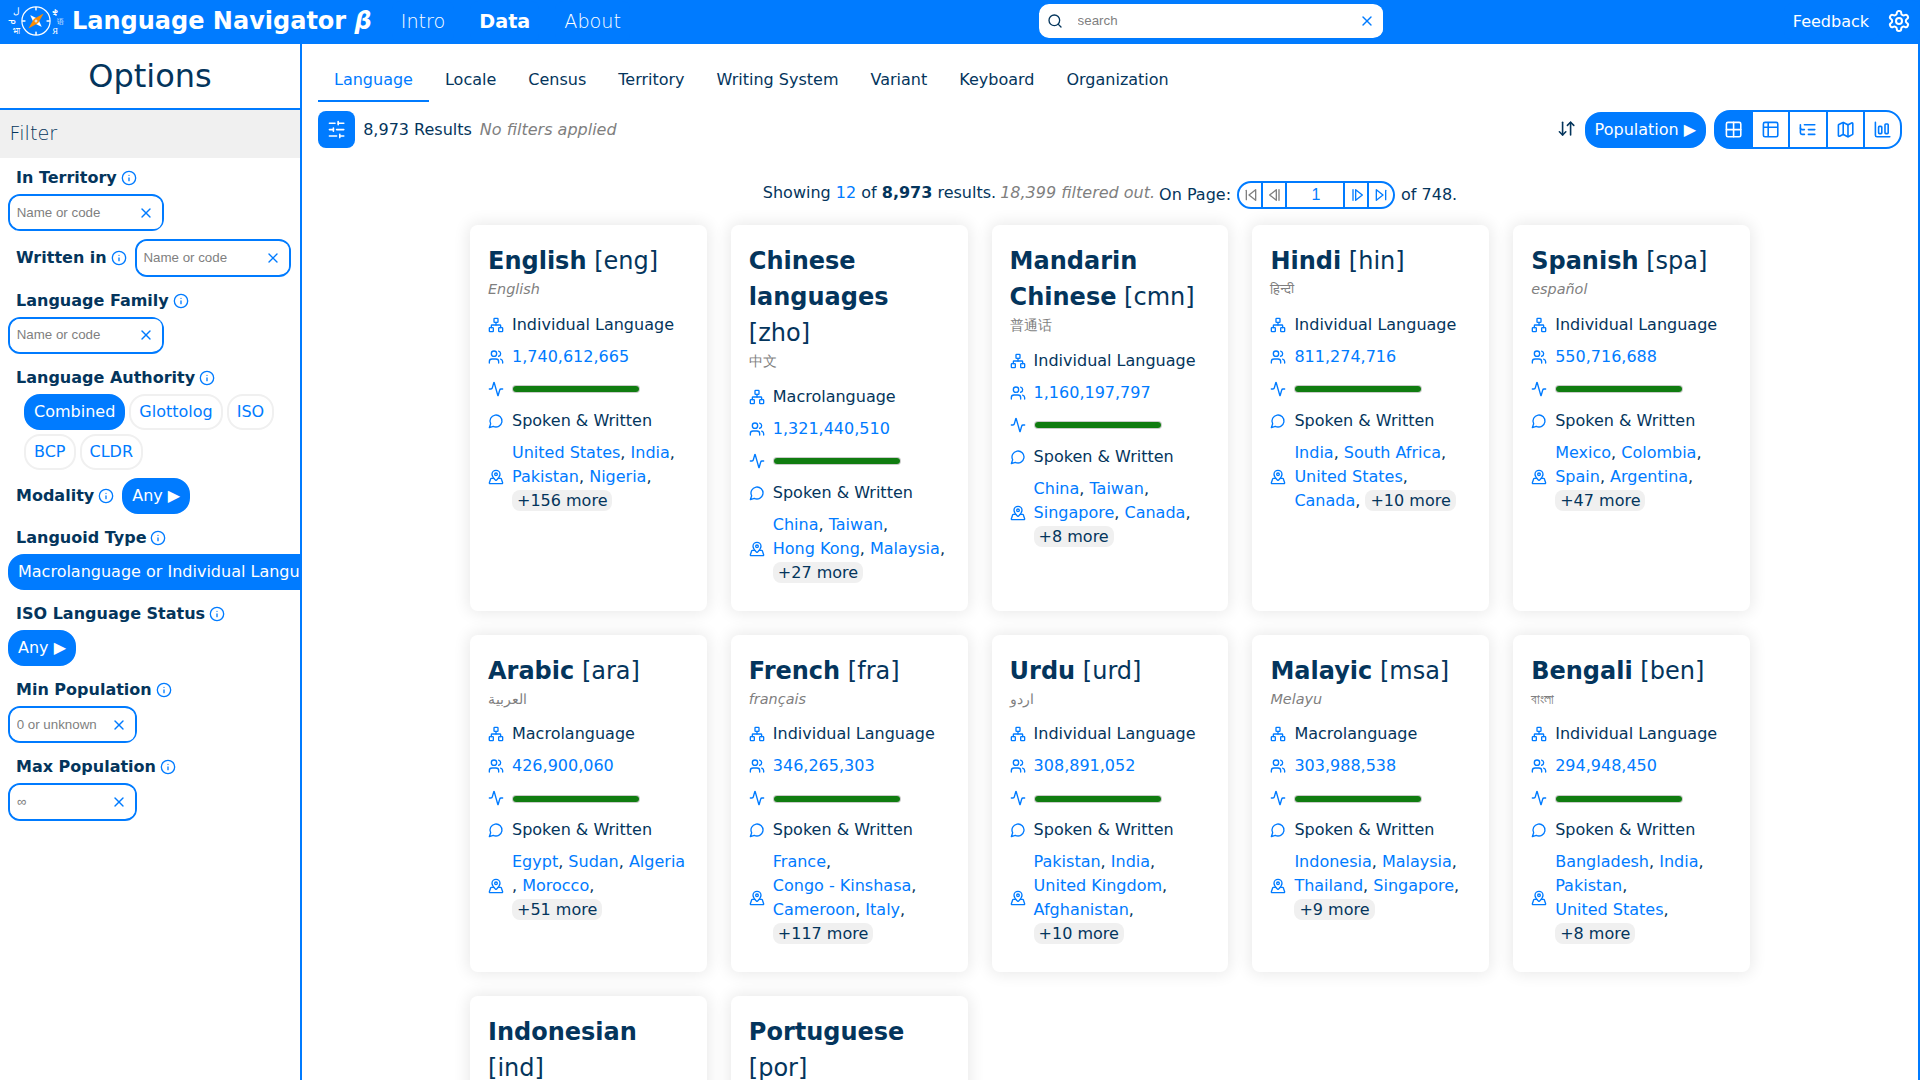
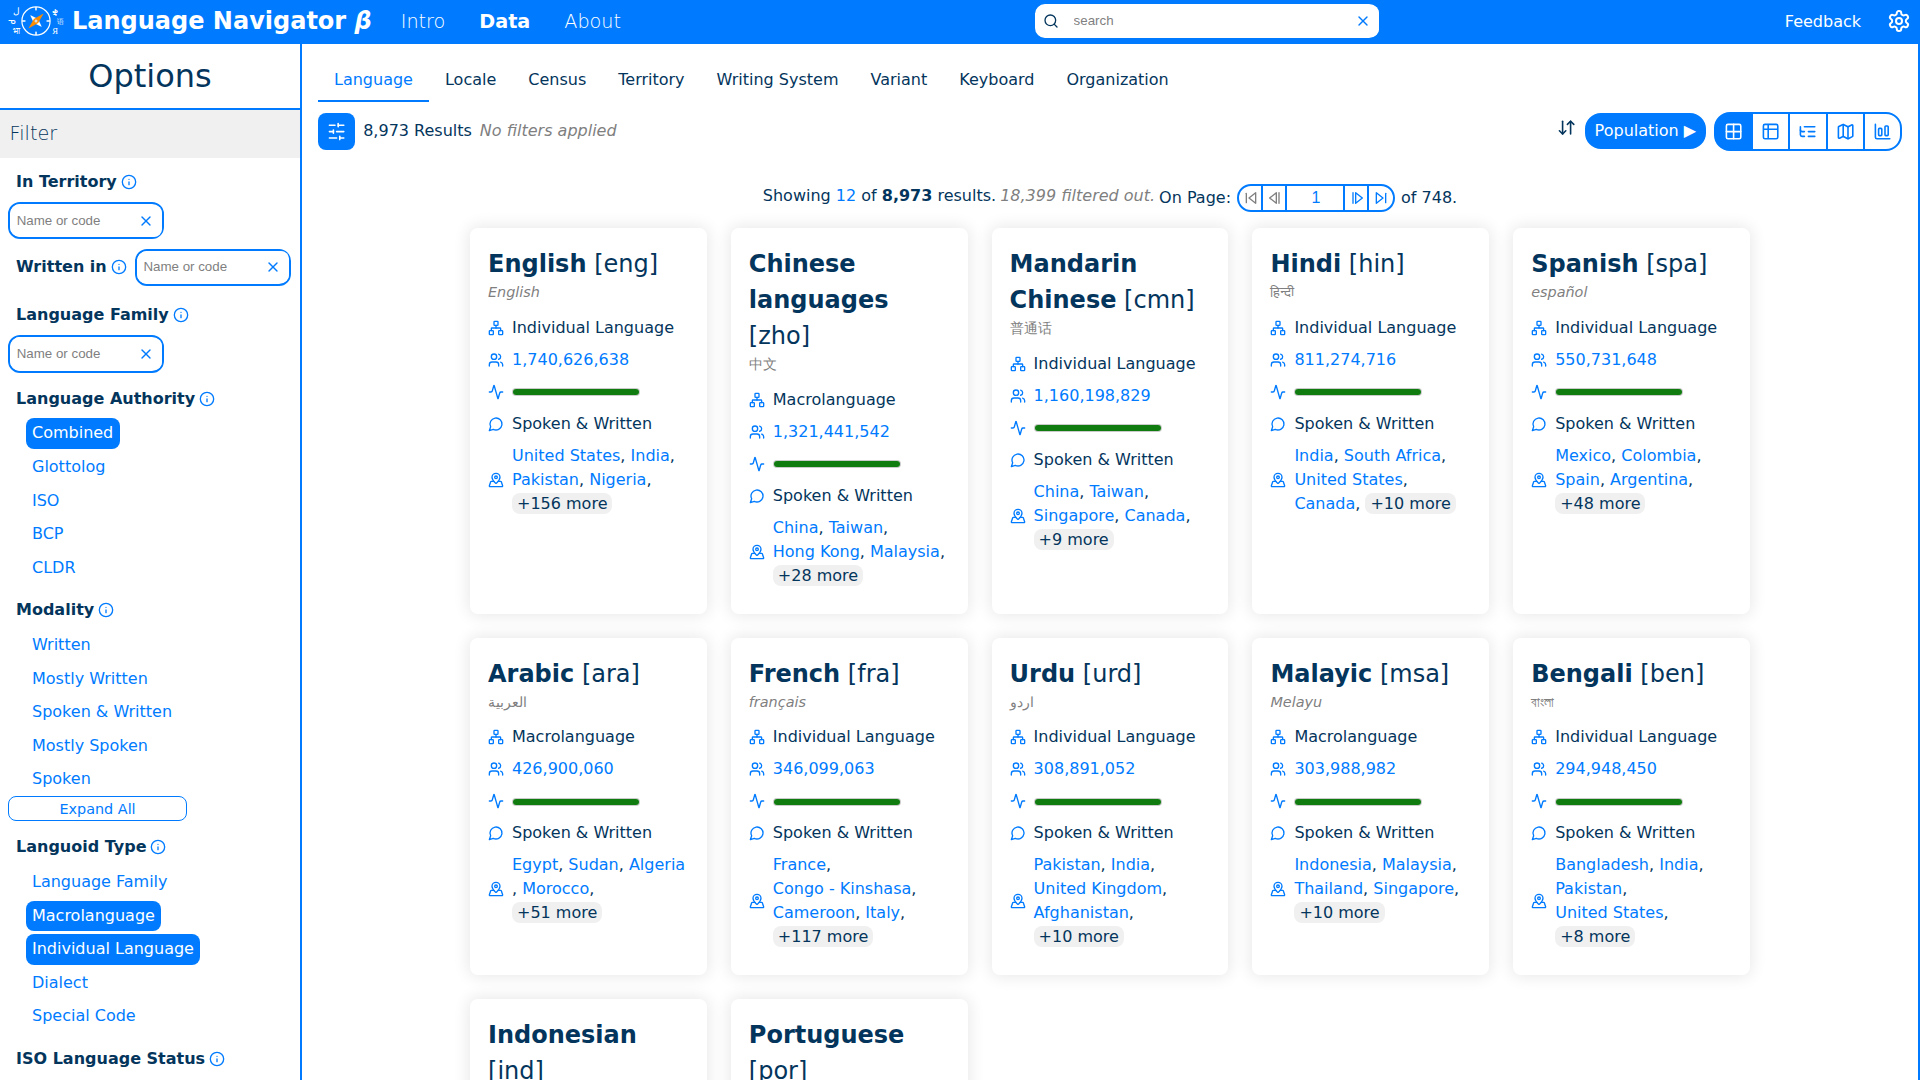
Feat/filter list display (#686)
Fixes #671

Summary: Replaced dropdown/button displays for enum filters with a new
Filter List display mode that shows options as a compact vertical list,
showing the first 5 with an "Expand All" toggle when there are 6 or
more.

- User experience
- Enum filters (Language Authority, Modality, Languoid Type, Territory
Type, ISO Language Status) now show as a vertical plain-text list
instead of a dropdown or button group
  - Options are visible at a glance without needing to open a dropdown
- Increased font bold size and spacing between labels for better
visibility
- "Expand All" / "Collapse" button appears when there are more than 5
options
- Logical changes
  - Added FilterList to the SelectorDisplay enum
- Selector now slices visible options to the first 5 when in FilterList
mode and not expanded
- FilterListMoreButton component added to Selector for the
expand/collapse toggle
- SelectorContainer renders as flex-column with full width for
FilterList
- useClickOutside guarded to not collapse FilterList state on outside
click
- Data
  - No data changes
- Refactors
- LanguageModalitySelector, LanguageScopeSelector,
TerritoryScopeSelector, VitalitySelector updated to accept and forward a
display prop
- VitalitySelector.test updated to include FilterList in the
SelectorDisplay mock and added "Expand All" click before checking all
options are visible
- Continued Refactors for: selectorbuttons, filterlist, and
selectoroptions in controls.css
[…]

Pull request: Feat/filter list display
Fixes #671

Summary: Replaced dropdown/button displays for enum filters with a new Filter List display mode that shows options as a compact vertical list, showing the first 4 with an "Expand All" toggle when there are 5 or more.

- User experience
  - Enum filters (Language Authority, Modality, Languoid Type, Territory Type, ISO Language Status) now show as a vertical plain-text list instead of a dropdown or button group
  - Options are visible at a glance without needing to open a dropdown
  - Increased font bold size and spacing between labels for better visibility
  - "Expand All" / "Collapse" button appears when there are more than 4 options
- Logical changes
  - Added FilterList to the SelectorDisplay enum
  - Selector now slices visible options to the first 4 when in FilterList mode and not expanded
  - FilterListMoreButton component added to Selector for the expand/collapse toggle
  - SelectorContainer renders as flex-column with full width for FilterList
  - useClickOutside guarded to not collapse FilterList state on outside click
- Data
  - No data changes
- Refactors
  - LanguageModalitySelector, LanguageScopeSelector, TerritoryScopeSelector, VitalitySelector updated to accept and forward a display prop
  - VitalitySelector.test updated to include FilterList in the SelectorDisplay mock and added "Expand All" click before checking all options are visible
[…]

diff --git a/src/features/params/ui/Selector.tsx b/src/features/params/ui/Selector.tsx
@@ -26,6 +26,8 @@ type Props<T> = {
   selectorStyle?: React.CSSProperties;
 };
 
+const FILTER_LIST_INITIAL_COUNT = 5;
+
 function Selector<T extends React.Key>({
   display,
   getOptionDescription,
@@ -41,14 +43,25 @@ function Selector<T extends React.Key>({
 }: Props<T>) {
   const [expanded, setExpanded] = useState(false);
   const optionsRef = useClickOutside(() => {
-    setTimeout(() => setExpanded(false), 100);
+    // Only auto-collapse for dropdown modes; FilterList is a persistent filter UI
+    if (display !== SelectorDisplay.FilterList) {
+      setTimeout(() => setExpanded(false), 100);
+    }
   });
+
+  // For FilterList: collapse to first N items unless expanded
+  const isFilterList = display === SelectorDisplay.FilterList;
+  const filterListCollapsed =
+    isFilterList && !expanded && options.length > FILTER_LIST_INITIAL_COUNT;
+  const visibleOptions = filterListCollapsed
+    ? options.slice(0, FILTER_LIST_INITIAL_COUNT)
+    : options;
 
   return (
     <SelectorContainer manualStyle={selectorStyle} manualDisplay={display}>
       {selectorLabel && <SelectorLabel label={selectorLabel} description={selectorDescription} />}
 
-      <div style={{ position: 'relative', display: 'flex', alignItems: 'center' }}>
+      <div className="selectorButtons">
         {/* The dropdown menu or the button list */}
         <OptionsContainer
           isExpanded={expanded}
@@ -59,14 +72,21 @@ function Selector<T extends React.Key>({
             getOptionDescription={getOptionDescription}
             getOptionLabel={getOptionLabel}
             onClick={(option) => {
-              setExpanded(false);
+              if (!isFilterList) setExpanded(false);
               onChange(option);
             }}
             optionStyle={optionStyle}
-            options={options}
+            options={visibleOptions}
             selected={selected}
           />
         </OptionsContainer>
+
+        {/* "More / Less" toggle for FilterList when there are enough options */}
+        <FilterListMoreButton
+          totalCount={options.length}
+          isExpanded={expanded}
+          toggle={() => setExpanded((prev) => !prev)}
+        />
 
         {/* Standalone option to open/close the dropdown menu */}
         <DropdownButton<T>
@@ -120,13 +140,19 @@ const OptionsContainer: React.FC<React.PropsWithChildren<OptionsContainerProps>>
     case SelectorDisplay.ButtonList:
       return (
         <div
+          className="selectorOptions"
           ref={containerRef}
-          style={{
-            display: 'flex',
-            flexWrap: 'wrap',
-            gap: '0.25em',
-            marginLeft: hasSelectorLabel ? '1em' : 'none',
-          }}
+          style={{ marginLeft: hasSelectorLabel ? '1em' : 'none' }}
+        >
+          {children}
+        </div>
+      );
+    case SelectorDisplay.FilterList:
+      return (
+        <div
+          className="selectorOptions"
+          ref={containerRef}
+          style={{ marginLeft: hasSelectorLabel ? '1em' : 'none' }}
         >
           {children}
         </div>
@@ -173,6 +199,28 @@ function Options<T extends React.Key>({
     />
   ));
 }
+
+type FilterListMoreButtonProps = {
+  totalCount: number;
+  isExpanded: boolean;
+  toggle: () => void;
+};
+
+const FilterListMoreButton: React.FC<FilterListMoreButtonProps> = ({
+  totalCount,
+  isExpanded,
+  toggle,
+}) => {
+  const { display } = useSelectorDisplay();
+  if (display !== SelectorDisplay.FilterList || totalCount <= FILTER_LIST_INITIAL_COUNT)
+    return null;
+
+  return (
+    <button className="filterListMoreButton" onClick={toggle}>
+      {isExpanded ? 'Collapse' : 'Expand All'}
+    </button>
+  );
+};
 
 type DropdownButtonProps<T> = {
   getOptionDescription?: (value: T) => React.ReactNode;

diff --git a/src/app/controls.css b/src/app/controls.css
@@ -5,6 +5,45 @@
   flex-wrap: wrap;
 }
 
+.selector .selectorButtons {
+  position: relative;
+  display: flex;
+  align-items: center;
+  flex-direction: row;
+}
+
+.selector.buttonList .selectorOptions {
+  display: flex;
+  flex-wrap: wrap;
+  gap: 0.25em;
+}
+
+.selector.filterList {
+  display: flex;
+  flex-direction: column;
+  width: 100%;
+  align-items: flex-start;
+  align-self: stretch;
+}
+
+.selector.filterList .selectorOptions {
+  display: flex;
+  flex-direction: column;
+  align-items: flex-start;
+}
+
+.selector.filterList .selectorButtons {
+  position: unset;
+  width: 100%;
+  align-items: flex-start;
+  flex-direction: column;
+}
+
+.selector.filterList .filterListMoreButton {
+  font-size: 0.9em;
+  padding: 0.25em 3.5em;
+}
+
 .selector.buttonList {
   flex-direction: column;
   align-items: start;

diff --git a/src/features/transforms/filtering/selectors/__tests__/VitalitySelector.test.tsx b/src/features/transforms/filtering/selectors/__tests__/VitalitySelector.test.tsx
@@ -18,8 +18,8 @@ import {
 
 vi.mock('@features/params/usePageParams', () => ({ default: vi.fn() }));
 vi.mock('@features/params/ui/SelectorDisplayContext', () => ({
-  useSelectorDisplay: vi.fn().mockReturnValue({ display: 'buttonList' }),
-  SelectorDisplay: { ButtonList: 'buttonList', Dropdown: 'dropdown' },
+  useSelectorDisplay: vi.fn().mockReturnValue({ display: 'filterList' }),
+  SelectorDisplay: { ButtonList: 'buttonList', Dropdown: 'dropdown', FilterList: 'filterList' },
   SelectorDisplayProvider: ({ children }: { children: React.ReactNode }) => <>{children}</>,
 }));
 vi.mock('@features/layers/hovercard/useHoverCard', () => ({
@@ -59,9 +59,16 @@ describe('VitalitySelector', () => {
   });
 
   describe('LanguageISOStatusSelector', () => {
-    it('displays all ISO vitality options', () => {
+    it('displays all ISO vitality options', async () => {
+      const user = userEvent.setup();
       render(<LanguageISOStatusSelector />);
+
       const expected = Object.values(LanguageISOStatus).filter((v) => typeof v === 'number');
+
+      // If there are more than 4 options expand first so all are visible
+      if (expected.length > 4) {
+        await user.click(screen.getByText('Expand All'));
+      }
 
       expected.forEach((status) => {
         const label = getLanguageISOStatusLabel(status);

diff --git a/src/features/transforms/filtering/selectors/FilterSelector.tsx b/src/features/transforms/filtering/selectors/FilterSelector.tsx
@@ -31,17 +31,17 @@ const FilterSelector: React.FC<Props> = ({ field }) => {
     case Field.WritingSystem:
       return <WritingSystemFilterSelector display={SelectorDisplay.ButtonList} />;
     case Field.Modality:
-      return <LanguageModalitySelector />;
+      return <LanguageModalitySelector display={SelectorDisplay.FilterList} />;
     case Field.LanguageScope:
-      return <LanguageScopeSelector />;
+      return <LanguageScopeSelector display={SelectorDisplay.FilterList} />;
     case Field.TerritoryScope:
-      return <TerritoryScopeSelector />;
+      return <TerritoryScopeSelector display={SelectorDisplay.FilterList} />;
     case Field.ISOStatus:
-      return <LanguageISOStatusSelector />;
+      return <LanguageISOStatusSelector display={SelectorDisplay.FilterList} />;
     case Field.Name:
       return <SearchBar />; // Technically correct but not recommended usage
     case Field.SourceForLanguage:
-      return <LanguageSourceSelector display={SelectorDisplay.ButtonList} />;
+      return <LanguageSourceSelector display={SelectorDisplay.FilterList} />;
     case Field.Population:
       return <PopulationFilterSelector />;
     default:

diff --git a/src/features/params/ui/SelectorLabel.tsx b/src/features/params/ui/SelectorLabel.tsx
@@ -29,9 +29,8 @@ function getStyle(display: SelectorDisplay): React.CSSProperties {
   const style: React.CSSProperties = {
     display: 'flex',
     gap: '0.25em',
-    lineHeight: '1em',
     alignItems: 'center',
-    fontWeight: 'bold',
+    fontWeight: '800', // adjusted font weight for easier visibility
     padding: '0.5em',
     margin: 'auto 0', // Vertically center
     whiteSpace: 'nowrap',
@@ -49,6 +48,11 @@ function getStyle(display: SelectorDisplay): React.CSSProperties {
       break;
     case SelectorDisplay.InlineDropdown:
       style.padding = '0 0.5em';
+      break;
+    case SelectorDisplay.FilterList:
+      style.padding = '0 0 0.5em 0.5em';
+      style.lineHeight = '2.25em'; // more spacing for visibility
+      style.marginBottom = '-0.5em'; // adjusted to have selector buttons closer to their label
       break;
     case SelectorDisplay.Dropdown:
       // nothing special

diff --git a/src/features/params/ui/SelectorOption.tsx b/src/features/params/ui/SelectorOption.tsx
@@ -138,6 +138,13 @@ export function getOptionStyle(
       style.borderRadius = '1em';
       if (!isSelected) style.border = '0.125em solid var(--color-button-secondary)';
       break;
+    case SelectorDisplay.FilterList:
+      style.border = 'none';
+      style.borderRadius = '0.5em';
+      style.padding = '0.2em 0.4em';
+      style.lineHeight = '1.5em';
+      style.margin = '0.1em';
+      break;
     case SelectorDisplay.InlineDropdown:
       // The standalone option should match the regular page text
       if (position === PositionInGroup.Standalone) {

diff --git a/src/features/transforms/filtering/selectors/LanguageModalitySelector.tsx b/src/features/transforms/filtering/selectors/LanguageModalitySelector.tsx
@@ -1,12 +1,15 @@
 import React from 'react';
 
 import Selector from '@features/params/ui/Selector';
+import { SelectorDisplay } from '@features/params/ui/SelectorDisplayContext';
 import usePageParams from '@features/params/usePageParams';
 
 import { LanguageModality } from '@entities/language/LanguageModality';
 import { getModalityLabel } from '@entities/language/LanguageModalityDisplay';
 
-const LanguageModalitySelector: React.FC = () => {
+type Props = { display?: SelectorDisplay };
+
+const LanguageModalitySelector: React.FC<Props> = ({ display }) => {
   const { modalityFilter, updatePageParams } = usePageParams();
 
   const selectorDescription =
@@ -29,6 +32,7 @@ const LanguageModalitySelector: React.FC = () => {
       }
       selected={modalityFilter}
       getOptionLabel={getModalityLabel}
+      display={display}
     />
   );
 };

diff --git a/src/features/transforms/filtering/selectors/TerritoryScopeSelector.tsx b/src/features/transforms/filtering/selectors/TerritoryScopeSelector.tsx
@@ -1,13 +1,16 @@
 import React from 'react';
 
 import Selector from '@features/params/ui/Selector';
+import { SelectorDisplay } from '@features/params/ui/SelectorDisplayContext';
 import usePageParams from '@features/params/usePageParams';
 
 import { TerritoryScope } from '@entities/territory/TerritoryTypes';
 
 import { getTerritoryScopeLabel } from '@strings/TerritoryScopeStrings';
 
-const TerritoryScopeSelector: React.FC = () => {
+type Props = { display?: SelectorDisplay };
+
+const TerritoryScopeSelector: React.FC<Props> = ({ display }) => {
   const { territoryScopes, updatePageParams } = usePageParams();
 
   const selectorDescription =
@@ -28,6 +31,7 @@ const TerritoryScopeSelector: React.FC = () => {
       }
       selected={territoryScopes}
       getOptionLabel={getTerritoryScopeLabel}
+      display={display}
     />
   );
 };

diff --git a/src/features/transforms/filtering/selectors/VitalitySelector.tsx b/src/features/transforms/filtering/selectors/VitalitySelector.tsx
@@ -1,6 +1,7 @@
 import React from 'react';
 
 import Selector from '@features/params/ui/Selector';
+import { SelectorDisplay } from '@features/params/ui/SelectorDisplayContext';
 import usePageParams from '@features/params/usePageParams';
 
 import {
@@ -18,7 +19,9 @@ import {
 
 const ETH_DISABLED = true;
 
-export const LanguageISOStatusSelector: React.FC = () => {
+type Props = { display?: SelectorDisplay };
+
+export const LanguageISOStatusSelector: React.FC<Props> = ({ display }) => {
   const { isoStatus, updatePageParams } = usePageParams();
 
   return (
@@ -34,6 +37,7 @@ export const LanguageISOStatusSelector: React.FC = () => {
       }
       selected={isoStatus}
       getOptionLabel={getLanguageISOStatusLabel}
+      display={display}
     />
   );
 };

diff --git a/src/features/params/ui/SelectorDisplayContext.tsx b/src/features/params/ui/SelectorDisplayContext.tsx
@@ -5,6 +5,7 @@ export enum SelectorDisplay {
   InlineDropdown = 'inlineDropdown', // Used to be inline with text
   ButtonGroup = 'buttonGroup', // Unsure if we want to keep this
   ButtonList = 'buttonList',
+  FilterList = 'filterList',
 }
 
 export const SelectorDisplayContext = React.createContext<{